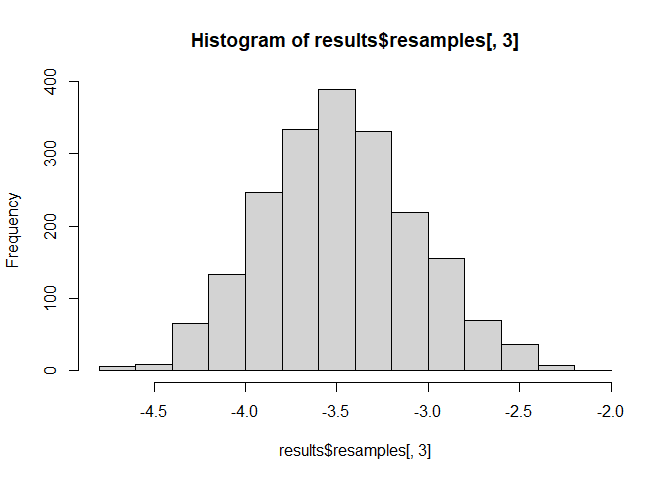
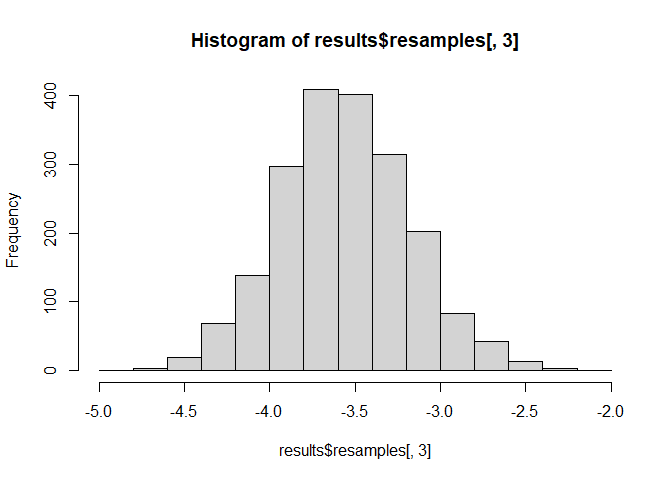
Add an example with more than two models

diff --git a/README.md b/README.md
@@ -73,7 +73,7 @@ mlboot(
 #> Metric:          mean_absolute_error
 #> 
 #>          Estimate   Lower.CI   Upper.CI   Sig.
-#> model1       10.1       9.76       10.4      *
+#> model1     10.063       9.76      10.38      *
 ```
 
 The output shows that the observed performance (MAE) in the simulated
@@ -116,9 +116,9 @@ mlboot(
 #> Metric:          mean_absolute_error
 #> 
 #>                   Estimate   Lower.CI   Upper.CI   Sig.
-#> model1               10.06       9.77      10.35      *
-#> model2                5.92       5.69       6.18      *
-#> model1 - model2       4.14       3.74       4.48      *
+#> model1              10.063      9.770     10.345      *
+#> model2               5.925      5.690      6.181      *
+#> model1 - model2      4.138      3.738      4.484      *
 ```
 
 The output shows the same observed performance for the first model,
@@ -135,6 +135,46 @@ observed difference was 4.138 and the confidence interval extends from
 (and indeed is not particularly close to zero), we can conclude with 95%
 confidence that the second model has a lower mean absolute error than
 the first model.
+
+### Estimating and comparing the performance of many models
+
+The same approach can be applied to any number of models. When `pairwise
+= TRUE`, all pairs of models will be compared.
+
+``` r
+# Perturb the trusted labels to a lesser degree to simulate better predictions
+model3 <- ratings + rnorm(n = 1000, mean = 10, sd = 5)
+model4 <- ratings + rnorm(n = 1000, mean = 5, sd = 5)
+
+# Append to existing dataframe
+dat3 <- cbind(dat2, model3, model4)
+
+# Estimate performance of both models and compare them using the MAE metric
+mlboot(
+  .data = dat3,
+  trusted = "ratings",
+  predicted = c("model1", "model2", "model3", "model4"),
+  metric = mean_absolute_error,
+  pairwise = TRUE
+)
+#> mlboot Results
+#> 
+#> Sample:          N=1000, Clusters=NA
+#> Bootstrap:       BCa, R=2000, CI=0.95
+#> Metric:          mean_absolute_error
+#> 
+#>                   Estimate   Lower.CI   Upper.CI   Sig.
+#> model1              10.063      9.764     10.363      *
+#> model2               5.925      5.675      6.174      *
+#> model3              10.186      9.882     10.490      *
+#> model4               5.859      5.606      6.110      *
+#> model1 - model2      4.138      3.740      4.520      *
+#> model1 - model3     -0.123     -0.558      0.317       
+#> model1 - model4     -4.261     -4.638     -3.852      *
+#> model2 - model3      4.204      3.800      4.603      *
+#> model2 - model4      0.066     -0.256      0.426       
+#> model3 - model4      4.327      3.934      4.729      *
+```
 
 ### Using the cluster bootstrap for hierarchical data
 
@@ -181,9 +221,9 @@ mlboot(
 #> Metric:          mean_absolute_error
 #> 
 #>                   Estimate   Lower.CI   Upper.CI   Sig.
-#> model1               17.83      14.75      21.34      *
-#> model2               21.30      17.80      25.17      *
-#> model1 - model2      -3.48      -4.18      -2.53      *
+#> model1              17.926     14.734     21.427      *
+#> model2              21.478     17.831     25.326      *
+#> model1 - model2     -3.552     -4.212     -2.728      *
 ```
 
 ### Visualizing bootstrap results
